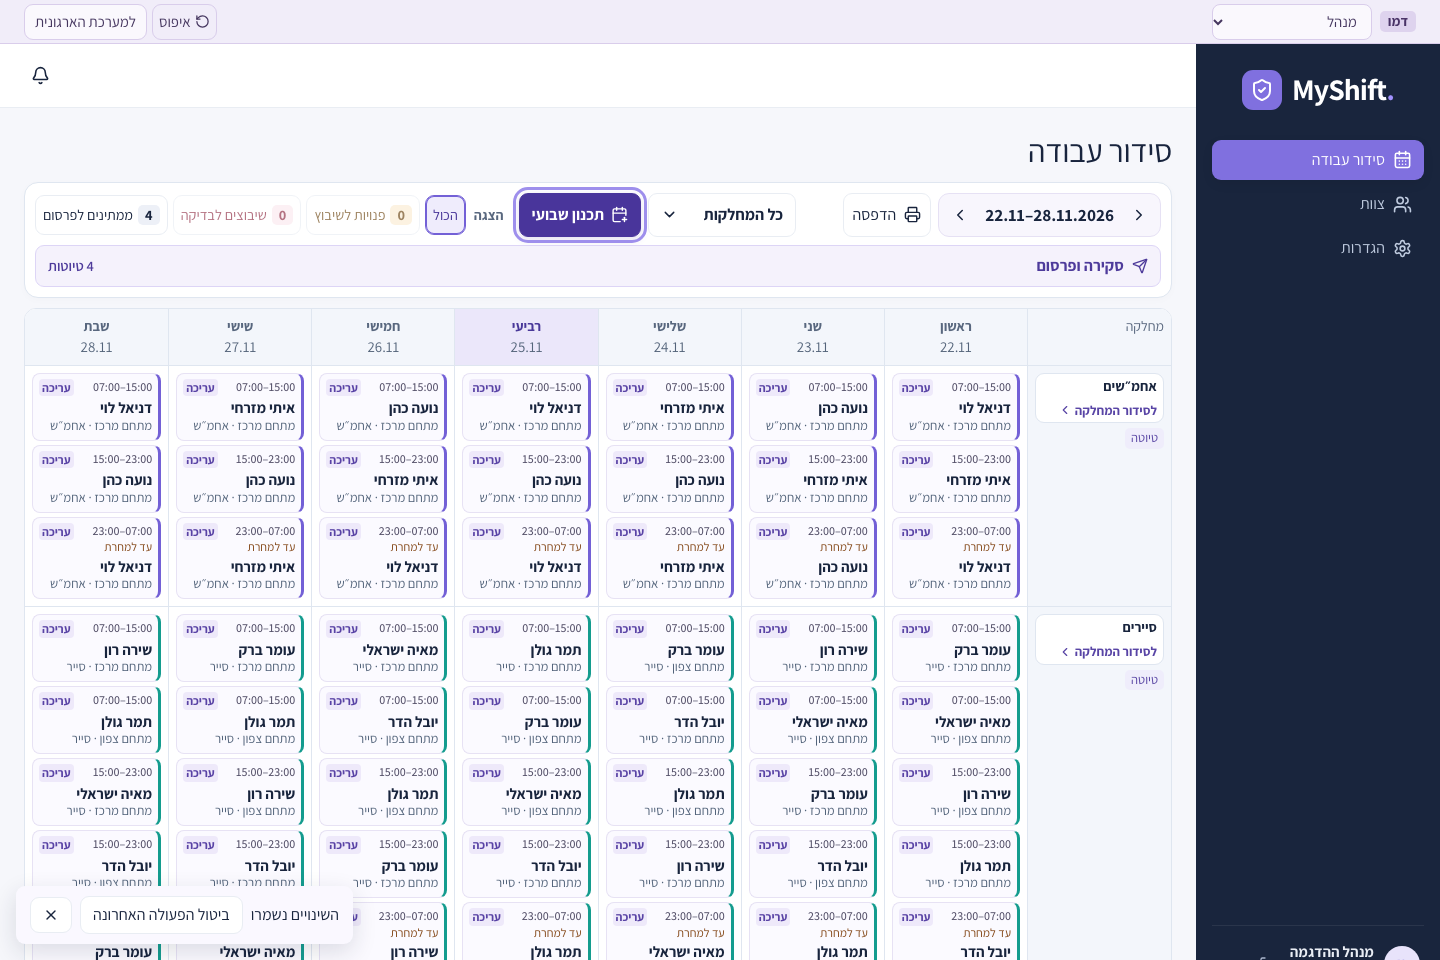
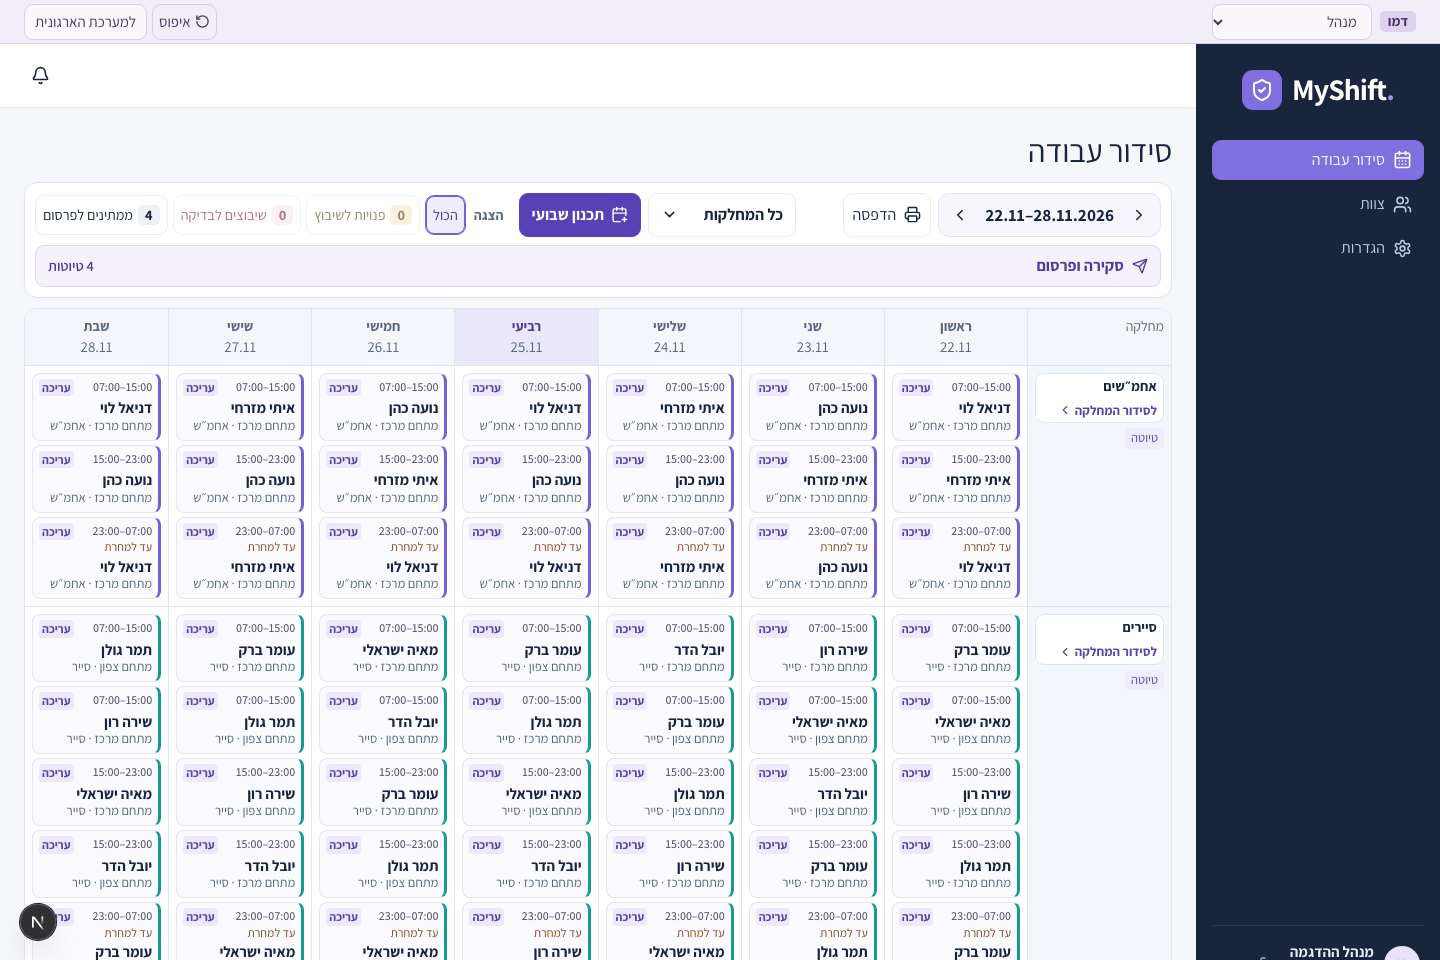
Limit filtered schedules to matching days

diff --git a/src/components/organization-week.tsx b/src/components/organization-week.tsx
@@ -53,8 +53,8 @@ const filters = [
   {
     key: "unpublished",
     label: "ממתינים לפרסום",
-    short: "טיוטות",
-    shown: "טיוטות מחלקה בלבד",
+    short: "לפני פרסום",
+    shown: "רק מחלקות עם טיוטה שממתינה לפרסום",
   },
 ] as const;
 type BoardFilter = "all" | (typeof filters)[number]["key"];
@@ -102,12 +102,11 @@ export default function OrganizationWeek({
   const draftCount = board.rows.filter((row) => row.status === "draft").length;
   const today = localDate(new Date().toISOString());
   const currentWeek = sunday();
-  const day = dates.includes(view.day)
+  const requestedDay = dates.includes(view.day)
     ? view.day
     : dates.includes(today)
       ? today
       : week;
-  const dayIndex = dates.indexOf(day);
   const activeDepartment = departments.some(
     ({ id }) => id === view.departmentId,
   )
@@ -232,23 +231,24 @@ export default function OrganizationWeek({
     )
       rows.push({ ...row, days: filteredDays });
   }
+  const matchingDays = dates.filter((_, index) =>
+    rows.some((row) => row.days[index].length || removedOn(row, index).length),
+  );
+  const requestedIndex = dates.indexOf(requestedDay);
+  const nearestDay = [...matchingDays].sort(
+    (a, b) =>
+      Math.abs(dates.indexOf(a) - requestedIndex) -
+      Math.abs(dates.indexOf(b) - requestedIndex),
+  )[0];
+  const day =
+    view.filter === "all" ? requestedDay : (nearestDay ?? requestedDay);
+  const dayIndex = dates.indexOf(day);
   const dailyRows =
     view.filter === "all"
       ? rows
       : rows.filter(
           (row) => row.days[dayIndex].length || removedOn(row, dayIndex).length,
         );
-  const nearestDay = dates
-    .filter((_, index) =>
-      rows.some(
-        (row) => row.days[index].length || removedOn(row, index).length,
-      ),
-    )
-    .sort(
-      (a, b) =>
-        Math.abs(dates.indexOf(a) - dayIndex) -
-        Math.abs(dates.indexOf(b) - dayIndex),
-    )[0];
   const end = dates[6];
   const year = week.slice(0, 4);
   const startDate =
@@ -550,7 +550,7 @@ export default function OrganizationWeek({
             </div>
             {view.filter !== "all" && (
               <p className={styles.filterStatus} role="status">
-                מוצגות {filters.find(({ key }) => key === view.filter)?.shown}
+                תצוגה: {filters.find(({ key }) => key === view.filter)?.shown}
                 {" · "}
                 {counts[view.filter]}{" "}
                 {view.filter === "unpublished" ? "מחלקות" : "בכל השבוע"}
@@ -605,7 +605,13 @@ export default function OrganizationWeek({
                 <button
                   type="button"
                   key={date}
-                  aria-pressed={day === date}
+                  disabled={
+                    view.filter !== "all" && !matchingDays.includes(date)
+                  }
+                  aria-pressed={
+                    day === date &&
+                    (view.filter === "all" || matchingDays.includes(date))
+                  }
                   aria-label={weekdays[index] + " " + dateLabel(date)}
                   aria-describedby={
                     attentionLabel(dayAttention[index])
@@ -660,16 +666,7 @@ export default function OrganizationWeek({
               ))}
               {!dailyRows.length && (
                 <div className={styles.empty}>
-                  <p>אין תוצאות ביום הזה.</p>
-                  {nearestDay && nearestDay !== day && (
-                    <button
-                      type="button"
-                      onClick={() => onView({ ...view, day: nearestDay })}
-                    >
-                      מעבר ליום {weekdays[dates.indexOf(nearestDay)]} ·{" "}
-                      {dateLabel(nearestDay)}
-                    </button>
-                  )}
+                  <p>אין ימים עם תוצאות למסנן הזה בשבוע הנבחר.</p>
                 </div>
               )}
             </div>

diff --git a/e2e/departments.spec.ts b/e2e/departments.spec.ts
@@ -695,8 +695,8 @@ test("mobile weekly navigation stays compact and keeps context with 13 long depa
 
   await days.getByRole("button", { name: /^שבת/ }).click();
   await roster.getByRole("button", { name: /פנויות לשיבוץ/ }).click();
-  await expect(roster.getByText("אין תוצאות ביום הזה.")).toBeVisible();
-  await roster.getByRole("button", { name: /^מעבר ליום חמישי/ }).click();
+  await expect(days.getByRole("button", { name: /^שבת/ })).toBeDisabled();
+  await expect(days.getByRole("button", { name: /^שלישי/ })).toBeEnabled();
   await expect(days.getByRole("button", { name: /^חמישי/ })).toHaveAttribute(
     "aria-pressed",
     "true",

diff --git a/src/components/organization-week.module.css b/src/components/organization-week.module.css
@@ -443,3 +443,11 @@
     width: 23mm;
   }
 }
+
+.board :global(.org-day-picker button:disabled) {
+  opacity: 0.48;
+}
+
+.filters button[data-filter="unpublished"] {
+  white-space: normal;
+}

diff --git a/README.md b/README.md
@@ -58,7 +58,7 @@ npm run dev
 ### הלוח השבועי
 
 - במחשב רואים את כל המחלקות ושבעת ימי השבוע בטבלה. בטלפון בוחרים יום ורואים את משמרותיו לפי מחלקה. החצים עוברים בין שבועות וכפתור **השבוע** חוזר לשבוע הנוכחי.
-- בוחרים מחלקה או את כולן. מסנני **הכול**, **פנויות**, **לבדיקה** ו־**טיוטות** משנים את התצוגה ומציגים את ההיקף הפעיל. הספירה של טיוטות היא לפי מחלקות. אם אין תוצאות ביום הנבחר, הלוח יכול להציע מעבר ליום קרוב עם תוצאות.
+- בוחרים מחלקה או את כולן. מסנני **הכול**, **פנויות**, **לבדיקה** ו־**לפני פרסום** משנים את התצוגה ומציגים את ההיקף הפעיל. **לפני פרסום** מציג רק מחלקות עם סידור שממתין לפרסום. כשהמסנן פעיל אפשר לבחור רק ימים עם תוצאות, והלוח עובר ליום המתאים הקרוב במידת הצורך.
 - סימון קטן ליד יום מציין משמרת פנויה או שיבוץ לבדיקה. כרטיס משמרת מסביר את הסיבה, למשל עובד שאינו זמין או חפיפה. כשיש גרסה מפורסמת, הכרטיס מציג גם שינויים הממתינים לפרסום מול מה שהעובדים רואים.
 - לחצו **לסידור המחלקה** לניהול מפורט. **חזרה לכל המחלקות** מחזירה את היום, המסננים ומיקום הגלילה.
 
